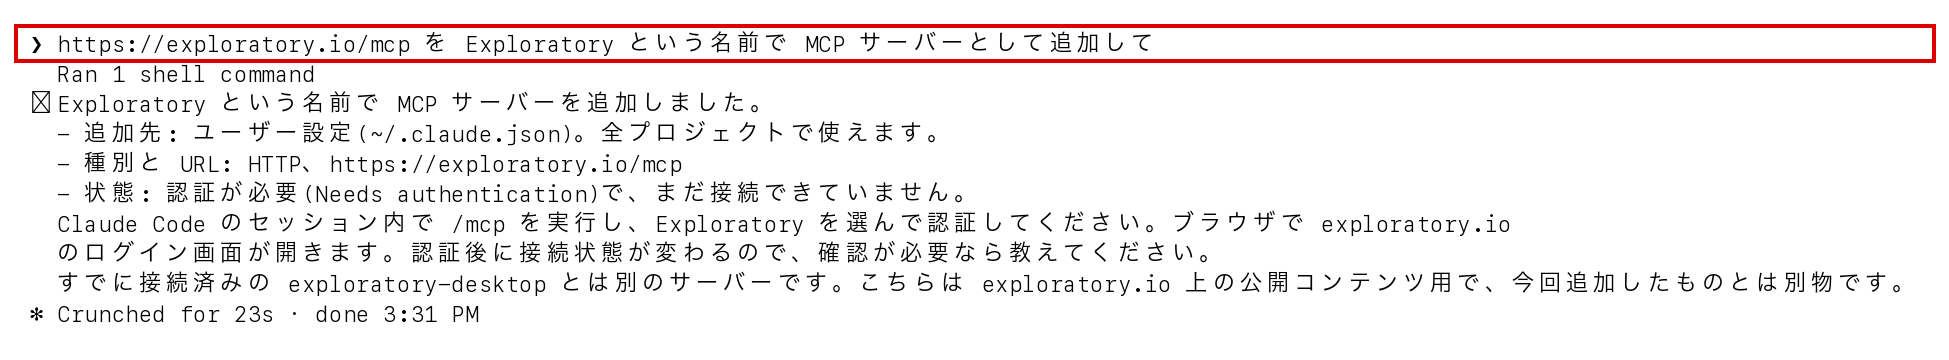
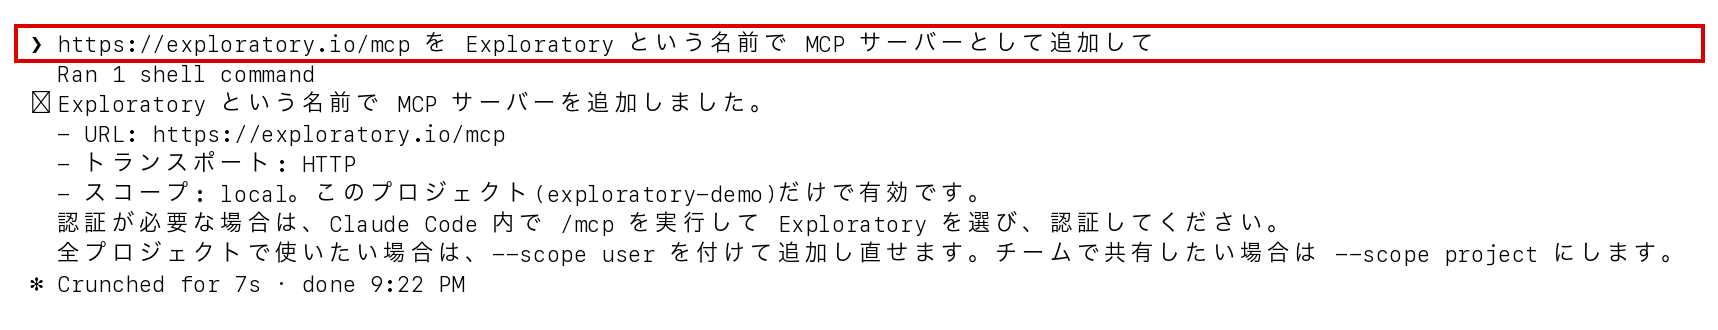
Replace chat-add screenshots with clean retakes; drop stale search screenshots
Add the Japanese Codex chat-add image so en/ja counts match. Remove the
four search images (they showed capture instructions and Desktop
connections) and replace them with one sentence of text.

Changed region(s): [[0.0, 0.0606, 1.0, 0.9091]]

diff --git a/mcp/server/clients/claude-code.md b/mcp/server/clients/claude-code.md
@@ -60,7 +60,7 @@ Instead of running the command yourself, you can ask Claude Code in the chat to 
 
 ![Asking Claude Code in the chat to add the Exploratory server](images/en/claude-code-chat-01-add.png)
 
-Claude Code ran `claude mcp add` and answered that the server was added but not yet connected. Which command and which scope (this folder only, or all projects) the AI chooses can differ from run to run, so read its answer.
+Claude Code ran `claude mcp add` and answered that the server was added to the local config, and that you run `/mcp` to sign in if authentication is required. Which command and which scope (this folder only, or all projects) the AI chooses can differ from run to run, so read its answer.
 
 ### Sign in and check
 
@@ -74,7 +74,7 @@ Claude Code ran `claude mcp add` and answered that the server was added but not 
    Find the "Sales Orders" data on Exploratory.
    ```
 
-![Claude Code finds the Sales Orders data through the Exploratory server](images/en/claude-code-chat-02-search.png)
+Claude Code searches through the Exploratory server and finds the data.
 
 If you have more than one Exploratory connection (for example exploratory-server, or a connector added in the Claude app), name the connection to search with, such as "Use the Exploratory MCP server."
 

diff --git a/mcp/server/clients/codex.md b/mcp/server/clients/codex.md
@@ -79,7 +79,7 @@ Instead of running the command yourself, you can ask Codex in the chat to add th
 
 ![Asking Codex in the chat to add the Exploratory server](images/en/codex-chat-01-add.png)
 
-Codex added the server with `codex mcp add` and answered that the browser sign-in was still pending. If the sign-in has not started, run `codex mcp login Exploratory`. Which command the AI chooses can differ from run to run, so read its answer.
+Codex added the server with `codex mcp add` and answered that the server was added and enabled. If you have not signed in yet, run `codex mcp login Exploratory`. Which command the AI chooses can differ from run to run, so read its answer.
 
 ### Sign in and check
 
@@ -92,7 +92,7 @@ Codex added the server with `codex mcp add` and answered that the browser sign-i
    Find the "Sales Orders" data on Exploratory. Use only the MCP server named Exploratory.
    ```
 
-![Codex finds the Sales Orders data through the Exploratory server](images/en/codex-chat-03-search.png)
+Codex searches through the Exploratory server and finds the data.
 
 If you already have another Exploratory connection (for example exploratory-server or Desktop), Codex may pick that one. Naming the connection avoids it.
 
